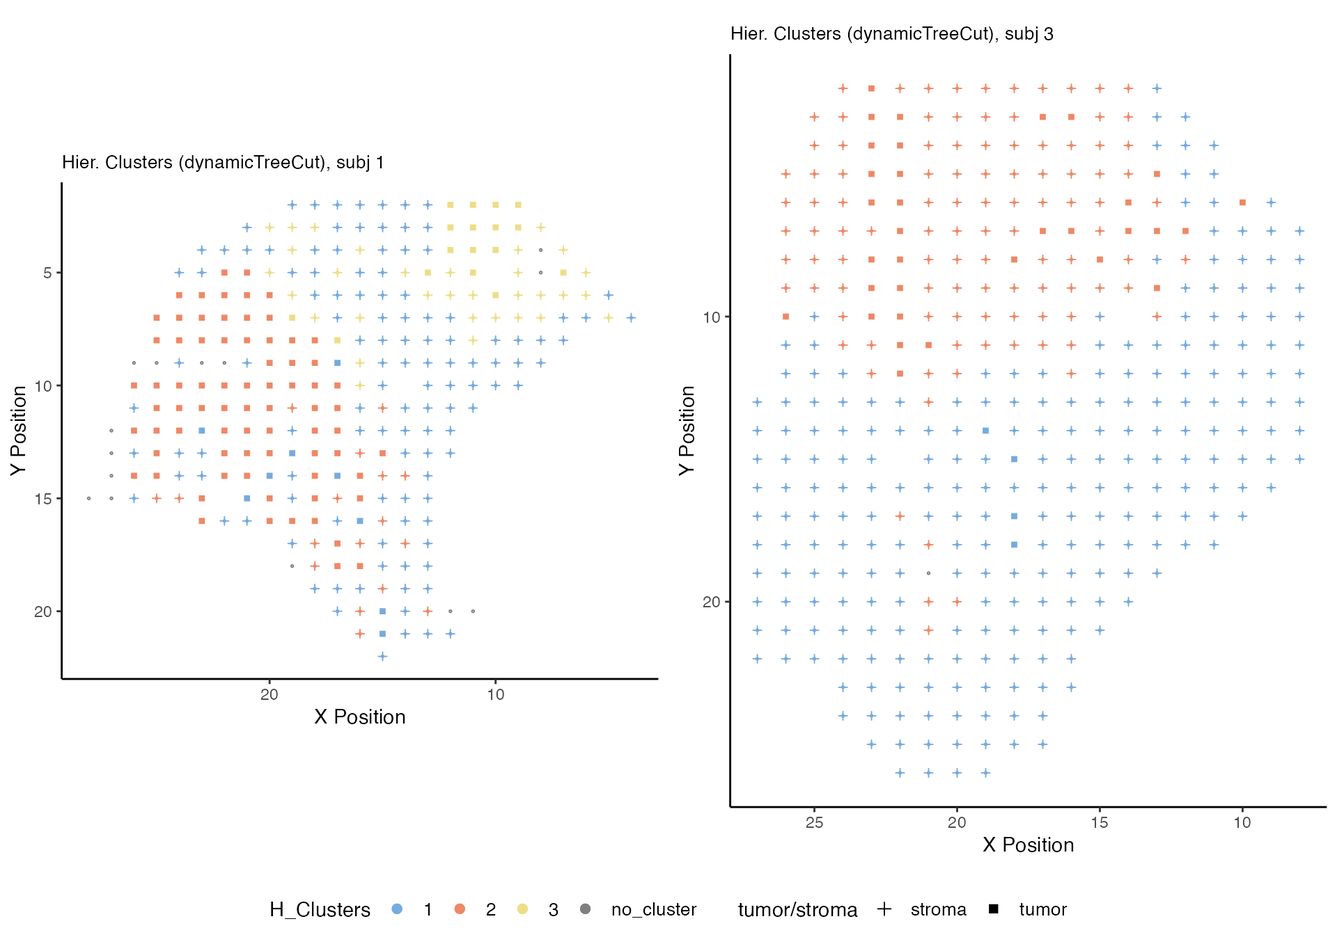
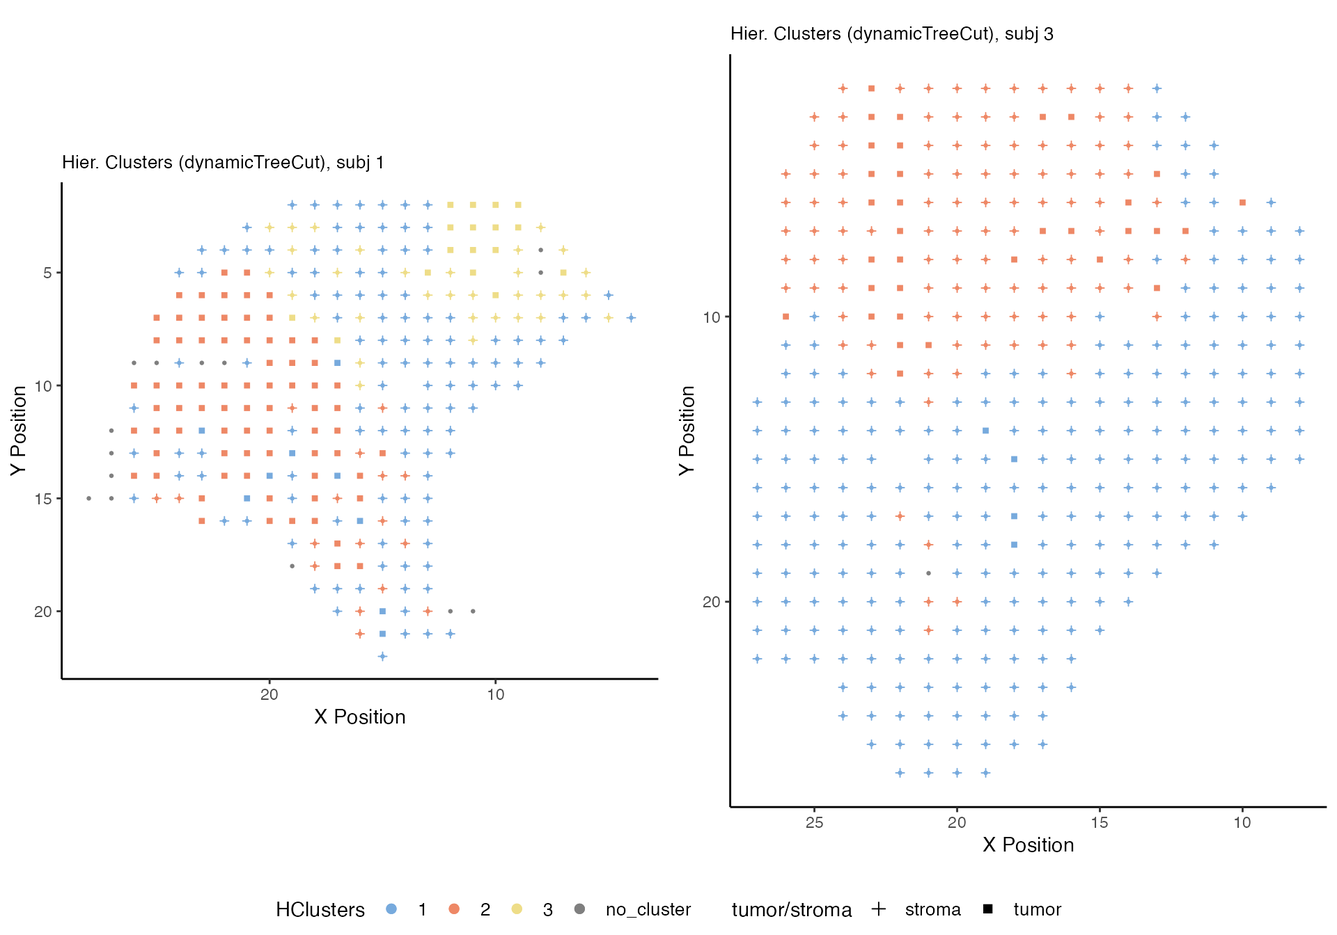
updated vignette

diff --git a/docs/articles/melanoma_ST_vignette.html b/docs/articles/melanoma_ST_vignette.html
@@ -144,7 +144,7 @@
 <code class="sourceCode R"><span class="fu"><a href="../reference/bulk_pca.html">bulk_pca</a></span><span class="op">(</span><span class="va">melanoma</span>, clinvar<span class="op">=</span><span class="st">'Gender'</span><span class="op">)</span>
 <span class="co">#&gt; Loading required package: magrittr</span>
 <span class="co">#&gt; Loading required package: ggplot2</span></code></pre></div>
-<p><img src="melanoma_ST_vignette_files/figure-html/unnamed-chunk-10-1.png" width="700"></p>
+<p><img src="melanoma_ST_vignette_files/figure-html/pca_chunk-1.png" width="960"></p>
 </div>
 <div id="data-normalization-of-spatially-resolved-transcriptomic-data" class="section level2">
 <h2 class="hasAnchor">
@@ -165,8 +165,8 @@
 <p>Let’s produce a quilt plot for the gene CAPG and SOX10, two genes known to be expressed in melanoma.</p>
 <div class="sourceCode" id="cb11"><pre class="downlit sourceCode r">
 <code class="sourceCode R"><span class="va">quilts1</span> <span class="op">&lt;-</span> <span class="fu"><a href="../reference/plot_gene_quilt.html">plot_gene_quilt</a></span><span class="op">(</span><span class="va">melanoma</span>, genes<span class="op">=</span><span class="fu"><a href="https://rdrr.io/r/base/c.html">c</a></span><span class="op">(</span><span class="st">'CAPG'</span>, <span class="st">'SOX10'</span><span class="op">)</span>, color_pal<span class="op">=</span><span class="st">"YlOrBr"</span>, plot_who<span class="op">=</span><span class="fl">1</span><span class="op">)</span>
-<span class="fu">ggpubr</span><span class="fu">::</span><span class="fu"><a href="https://rpkgs.datanovia.com/ggpubr/reference/ggarrange.html">ggarrange</a></span><span class="op">(</span>plotlist<span class="op">=</span><span class="va">quilts1</span>, nrow<span class="op">=</span><span class="fl">1</span>, ncol<span class="op">=</span><span class="fl">2</span><span class="op">)</span></code></pre></div>
-<p><img src="melanoma_ST_vignette_files/figure-html/unnamed-chunk-12-1.png" width="700"></p>
+<span class="fu">ggpubr</span><span class="fu">::</span><span class="fu"><a href="https://rpkgs.datanovia.com/ggpubr/reference/ggarrange.html">ggarrange</a></span><span class="op">(</span>plotlist<span class="op">=</span><span class="va">quilts1</span>, nrow<span class="op">=</span><span class="fl">1</span>, ncol<span class="op">=</span><span class="fl">2</span>, common.legend<span class="op">=</span><span class="cn">T</span>, legend<span class="op">=</span><span class="st">'bottom'</span><span class="op">)</span></code></pre></div>
+<p><img src="melanoma_ST_vignette_files/figure-html/genequilt_chunk-1.png" width="960"></p>
 <p>We can see that gene expression patterns of both genes are different, with a more dispersed pattern in CAPG, compared to SOX10. The large area of lower CAPG expression corresponds to the melanoma pocket detected by Thrane et al. (see Figure 3 of their study).</p>
 <div id="spatial-interpolation-kriging-of-gene-expression" class="section level3">
 <h3 class="hasAnchor">
@@ -183,8 +183,8 @@
 <div class="sourceCode" id="cb13"><pre class="downlit sourceCode r">
 <code class="sourceCode R"><span class="va">kriges1</span> <span class="op">&lt;-</span> <span class="fu"><a href="../reference/plot_gene_krige.html">plot_gene_krige</a></span><span class="op">(</span><span class="va">melanoma</span>, genes<span class="op">=</span><span class="fu"><a href="https://rdrr.io/r/base/c.html">c</a></span><span class="op">(</span><span class="st">'CAPG'</span>, <span class="st">'SOX10'</span><span class="op">)</span>, plot_who<span class="op">=</span><span class="fl">1</span><span class="op">)</span>
 <span class="co">#&gt; Loading required namespace: rgeos</span>
-<span class="fu">ggpubr</span><span class="fu">::</span><span class="fu"><a href="https://rpkgs.datanovia.com/ggpubr/reference/ggarrange.html">ggarrange</a></span><span class="op">(</span>plotlist<span class="op">=</span><span class="va">kriges1</span>, nrow<span class="op">=</span><span class="fl">1</span>, ncol<span class="op">=</span><span class="fl">2</span><span class="op">)</span></code></pre></div>
-<p><img src="melanoma_ST_vignette_files/figure-html/unnamed-chunk-14-1.png" width="700"></p>
+<span class="fu">ggpubr</span><span class="fu">::</span><span class="fu"><a href="https://rpkgs.datanovia.com/ggpubr/reference/ggarrange.html">ggarrange</a></span><span class="op">(</span>plotlist<span class="op">=</span><span class="va">kriges1</span>, nrow<span class="op">=</span><span class="fl">1</span>, ncol<span class="op">=</span><span class="fl">2</span>, common.legend<span class="op">=</span><span class="cn">T</span>, legend<span class="op">=</span><span class="st">'bottom'</span><span class="op">)</span></code></pre></div>
+<p><img src="melanoma_ST_vignette_files/figure-html/plotgenekrige_chunk1-1.png" width="960"></p>
 <p>By looking at the transcriptomic surfaces of the tho genes, it is easier to detect pockets of higher (or lower) expression within the tissue. It is now more evident that expression of CAPG is lower on the left (melanoma) portion of the tumor slice, compared to the rest of the slice.</p>
 <p>In the transcriptomic surface plots, <code>spatialGE</code> outputs three spatial heterogeneity statistics: Moran’s I, Geary’s C, and Getis-Ord Gi.</p>
 <table class="table">
@@ -217,8 +217,8 @@
 <p>A higher difference in Moran’s I can be seen for one of the tissue slices of patient 2. With a higher Moran’s I, CAPG shows expression concentrated in the center right and lower left of the tissue. For SOX10, expression is almost uniform for the lower half of the tissue slice.</p>
 <div class="sourceCode" id="cb14"><pre class="downlit sourceCode r">
 <code class="sourceCode R"><span class="va">kriges2</span> <span class="op">&lt;-</span> <span class="fu"><a href="../reference/plot_gene_krige.html">plot_gene_krige</a></span><span class="op">(</span><span class="va">melanoma</span>, genes<span class="op">=</span><span class="fu"><a href="https://rdrr.io/r/base/c.html">c</a></span><span class="op">(</span><span class="st">'CAPG'</span>, <span class="st">'SOX10'</span><span class="op">)</span>, plot_who<span class="op">=</span><span class="fl">3</span><span class="op">)</span>
-<span class="fu">ggpubr</span><span class="fu">::</span><span class="fu"><a href="https://rpkgs.datanovia.com/ggpubr/reference/ggarrange.html">ggarrange</a></span><span class="op">(</span>plotlist<span class="op">=</span><span class="va">kriges2</span>, nrow<span class="op">=</span><span class="fl">1</span>, ncol<span class="op">=</span><span class="fl">2</span><span class="op">)</span></code></pre></div>
-<p><img src="melanoma_ST_vignette_files/figure-html/unnamed-chunk-16-1.png" width="700"></p>
+<span class="fu">ggpubr</span><span class="fu">::</span><span class="fu"><a href="https://rpkgs.datanovia.com/ggpubr/reference/ggarrange.html">ggarrange</a></span><span class="op">(</span>plotlist<span class="op">=</span><span class="va">kriges2</span>, nrow<span class="op">=</span><span class="fl">1</span>, ncol<span class="op">=</span><span class="fl">2</span>, common.legend<span class="op">=</span><span class="cn">T</span>, legend<span class="op">=</span><span class="st">'bottom'</span><span class="op">)</span></code></pre></div>
+<p><img src="melanoma_ST_vignette_files/figure-html/plotgenekrige_chunk2-1.png" width="960"></p>
 </div>
 </div>
 <div id="gene-expression-deconvolution-in-spatial-arrays" class="section level2">
@@ -267,48 +267,47 @@
 <span class="co">#&gt; Applying xCell to spatial array #4...</span>
 <span class="co">#&gt; </span>
 <span class="co">#&gt; Calculating p-values for spatial array #4...</span></code></pre></div>
-<p>With the function <code><a href="../reference/plot_deconv_quilt.html">plot_deconv_quilt()</a></code>, we can visualize the cell type scores inferred by xCell. For example, B cells and lymphatic endothelial cells.</p>
+<p>With the function <code><a href="../reference/plot_deconv_quilt.html">plot_deconv_quilt()</a></code>, we can visualize the cell type scores inferred by xCell. For example, B cells and dendritic cells.</p>
 <div class="sourceCode" id="cb16"><pre class="downlit sourceCode r">
-<code class="sourceCode R"><span class="va">quilts2</span> <span class="op">&lt;-</span> <span class="fu"><a href="../reference/plot_deconv_quilt.html">plot_deconv_quilt</a></span><span class="op">(</span><span class="va">melanoma</span>, cells<span class="op">=</span><span class="fu"><a href="https://rdrr.io/r/base/c.html">c</a></span><span class="op">(</span><span class="st">'b_cells'</span>, <span class="st">'ly_endothelial_cells'</span><span class="op">)</span>, 
+<code class="sourceCode R"><span class="va">quilts2</span> <span class="op">&lt;-</span> <span class="fu"><a href="../reference/plot_deconv_quilt.html">plot_deconv_quilt</a></span><span class="op">(</span><span class="va">melanoma</span>, cells<span class="op">=</span><span class="fu"><a href="https://rdrr.io/r/base/c.html">c</a></span><span class="op">(</span><span class="st">'b_cells'</span>, <span class="st">'i_dc'</span><span class="op">)</span>, 
                            color_pal<span class="op">=</span><span class="st">"YlOrBr"</span>, plot_who<span class="op">=</span><span class="fl">1</span>, purity<span class="op">=</span><span class="cn">T</span><span class="op">)</span>
-
-<span class="fu">gridExtra</span><span class="fu">::</span><span class="fu"><a href="https://rdrr.io/pkg/gridExtra/man/arrangeGrob.html">grid.arrange</a></span><span class="op">(</span>grobs<span class="op">=</span><span class="va">quilts2</span>, nrow<span class="op">=</span><span class="fl">1</span>, ncol<span class="op">=</span><span class="fl">2</span><span class="op">)</span></code></pre></div>
-<p><img src="melanoma_ST_vignette_files/figure-html/unnamed-chunk-18-1.png" width="700"></p>
-<p>By plotting the tumor/stroma classification of the spots, the differences in cell scores can quiclky be detected. Melanoma areas (squares) show lower B cell and endothelial cell scores, as expected. Nonetheless, some B cell infiltration is observed in the melanoma pocket (darker squares on the left portion of the graph on the left).</p>
+<span class="fu">ggpubr</span><span class="fu">::</span><span class="fu"><a href="https://rpkgs.datanovia.com/ggpubr/reference/ggarrange.html">ggarrange</a></span><span class="op">(</span>plotlist<span class="op">=</span><span class="va">quilts2</span>, nrow<span class="op">=</span><span class="fl">1</span>, ncol<span class="op">=</span><span class="fl">3</span>, common.legend<span class="op">=</span><span class="cn">T</span>, legend<span class="op">=</span><span class="st">'bottom'</span><span class="op">)</span></code></pre></div>
+<p><img src="melanoma_ST_vignette_files/figure-html/deconvquilts_chunk-1.png" width="960"></p>
+<p>By plotting the tumor/stroma classification of the spots, the differences in cell scores can quiclky be detected. Melanoma areas (squares) show lower B cell and dendritic cell scores, as expected. Nonetheless, B cells were abundant in the lymphoid pocket (upper right part of the tissue).</p>
 <p>Similar plots can be generated for gene expression, as opposed to deconvolution scores, with the <code><a href="../reference/plot_gene_quilt.html">plot_gene_quilt()</a></code> function:</p>
 <div class="sourceCode" id="cb17"><pre class="downlit sourceCode r">
 <code class="sourceCode R"><span class="va">quilts3</span> <span class="op">&lt;-</span> <span class="fu"><a href="../reference/plot_gene_quilt.html">plot_gene_quilt</a></span><span class="op">(</span><span class="va">melanoma</span>, genes<span class="op">=</span><span class="fu"><a href="https://rdrr.io/r/base/c.html">c</a></span><span class="op">(</span><span class="st">'CAPG'</span>, <span class="st">'SOX10'</span><span class="op">)</span>, color_pal<span class="op">=</span><span class="st">"YlOrBr"</span>, 
                            plot_who<span class="op">=</span><span class="fl">1</span>, purity<span class="op">=</span><span class="cn">T</span><span class="op">)</span>
 
-<span class="fu">gridExtra</span><span class="fu">::</span><span class="fu"><a href="https://rdrr.io/pkg/gridExtra/man/arrangeGrob.html">marrangeGrob</a></span><span class="op">(</span><span class="va">quilts3</span>, nrow<span class="op">=</span><span class="fl">1</span>, ncol<span class="op">=</span><span class="fl">2</span><span class="op">)</span></code></pre></div>
-<p><img src="melanoma_ST_vignette_files/figure-html/unnamed-chunk-19-1.png" width="700"></p>
+<span class="fu">ggpubr</span><span class="fu">::</span><span class="fu"><a href="https://rpkgs.datanovia.com/ggpubr/reference/ggarrange.html">ggarrange</a></span><span class="op">(</span>plotlist<span class="op">=</span><span class="va">quilts3</span>, nrow<span class="op">=</span><span class="fl">1</span>, ncol<span class="op">=</span><span class="fl">3</span>, common.legend<span class="op">=</span><span class="cn">T</span>, legend<span class="op">=</span><span class="st">'bottom'</span><span class="op">)</span></code></pre></div>
+<p><img src="melanoma_ST_vignette_files/figure-html/genepurity_chunk-1.png" width="960"></p>
 <p>Spatial interpolation of cell scores is also possible with the <code><a href="../reference/deconv_krige.html">deconv_krige()</a></code> function:</p>
 <div class="sourceCode" id="cb18"><pre class="downlit sourceCode r">
-<code class="sourceCode R"><span class="va">melanoma</span> <span class="op">&lt;-</span> <span class="fu"><a href="../reference/deconv_krige.html">deconv_krige</a></span><span class="op">(</span><span class="va">melanoma</span>, cells<span class="op">=</span><span class="fu"><a href="https://rdrr.io/r/base/c.html">c</a></span><span class="op">(</span><span class="st">'b_cells'</span>, <span class="st">'ly_endothelial_cells'</span><span class="op">)</span>, 
+<code class="sourceCode R"><span class="va">melanoma</span> <span class="op">&lt;-</span> <span class="fu"><a href="../reference/deconv_krige.html">deconv_krige</a></span><span class="op">(</span><span class="va">melanoma</span>, cells<span class="op">=</span><span class="fu"><a href="https://rdrr.io/r/base/c.html">c</a></span><span class="op">(</span><span class="st">'b_cells'</span>, <span class="st">'i_dc'</span><span class="op">)</span>, 
                          who<span class="op">=</span><span class="fu"><a href="https://rdrr.io/r/base/c.html">c</a></span><span class="op">(</span><span class="fl">1</span>, <span class="fl">3</span><span class="op">)</span><span class="op">)</span>
 <span class="co">#&gt; Performing spatial interpolation ('kriging') of b_cells for subject 1...</span>
-<span class="co">#&gt; Performing spatial interpolation ('kriging') of ly_endothelial_cells for subject 1...</span>
+<span class="co">#&gt; Performing spatial interpolation ('kriging') of i_dc for subject 1...</span>
 <span class="co">#&gt; Performing spatial interpolation ('kriging') of b_cells for subject 3...</span>
-<span class="co">#&gt; Performing spatial interpolation ('kriging') of ly_endothelial_cells for subject 3...</span></code></pre></div>
+<span class="co">#&gt; Performing spatial interpolation ('kriging') of i_dc for subject 3...</span></code></pre></div>
 <p>We plot the surfaces using the <code><a href="../reference/plot_deconv_krige.html">plot_deconv_krige()</a></code> function.</p>
 <div class="sourceCode" id="cb19"><pre class="downlit sourceCode r">
-<code class="sourceCode R"><span class="va">kriges3</span> <span class="op">&lt;-</span> <span class="fu"><a href="../reference/plot_deconv_krige.html">plot_deconv_krige</a></span><span class="op">(</span><span class="va">melanoma</span>,  cells<span class="op">=</span><span class="fu"><a href="https://rdrr.io/r/base/c.html">c</a></span><span class="op">(</span><span class="st">'b_cells'</span>, <span class="st">'ly_endothelial_cells'</span><span class="op">)</span>,
+<code class="sourceCode R"><span class="va">kriges3</span> <span class="op">&lt;-</span> <span class="fu"><a href="../reference/plot_deconv_krige.html">plot_deconv_krige</a></span><span class="op">(</span><span class="va">melanoma</span>,  cells<span class="op">=</span><span class="fu"><a href="https://rdrr.io/r/base/c.html">c</a></span><span class="op">(</span><span class="st">'b_cells'</span>, <span class="st">'i_dc'</span><span class="op">)</span>,
                            color_pal<span class="op">=</span><span class="st">"YlOrBr"</span>, plot_who<span class="op">=</span><span class="fl">1</span><span class="op">)</span>
-<span class="fu">ggpubr</span><span class="fu">::</span><span class="fu"><a href="https://rpkgs.datanovia.com/ggpubr/reference/ggarrange.html">ggarrange</a></span><span class="op">(</span>plotlist<span class="op">=</span><span class="va">kriges3</span>, nrow<span class="op">=</span><span class="fl">1</span>, ncol<span class="op">=</span><span class="fl">2</span><span class="op">)</span></code></pre></div>
-<p><img src="melanoma_ST_vignette_files/figure-html/unnamed-chunk-21-1.png" width="700"></p>
+<span class="fu">ggpubr</span><span class="fu">::</span><span class="fu"><a href="https://rpkgs.datanovia.com/ggpubr/reference/ggarrange.html">ggarrange</a></span><span class="op">(</span>plotlist<span class="op">=</span><span class="va">kriges3</span>, nrow<span class="op">=</span><span class="fl">1</span>, ncol<span class="op">=</span><span class="fl">2</span>, common.legend<span class="op">=</span><span class="cn">T</span>, legend<span class="op">=</span><span class="st">'bottom'</span><span class="op">)</span></code></pre></div>
+<p><img src="melanoma_ST_vignette_files/figure-html/plotdeconvkrige_chunk-1.png" width="960"></p>
 <p>Cell scores in xCell are accompanied by p-values to support the significance of the scores. The p-values are calculated automatically during deconvolution in <code>spatialGE</code>, and we can plot them using the <code>pvalue</code> option:</p>
 <div class="sourceCode" id="cb20"><pre class="downlit sourceCode r">
-<code class="sourceCode R"><span class="va">kriges4</span> <span class="op">&lt;-</span> <span class="fu"><a href="../reference/plot_deconv_krige.html">plot_deconv_krige</a></span><span class="op">(</span><span class="va">melanoma</span>,  cells<span class="op">=</span><span class="fu"><a href="https://rdrr.io/r/base/c.html">c</a></span><span class="op">(</span><span class="st">'b_cells'</span>, <span class="st">'ly_endothelial_cells'</span><span class="op">)</span>,
+<code class="sourceCode R"><span class="va">kriges4</span> <span class="op">&lt;-</span> <span class="fu"><a href="../reference/plot_deconv_krige.html">plot_deconv_krige</a></span><span class="op">(</span><span class="va">melanoma</span>,  cells<span class="op">=</span><span class="fu"><a href="https://rdrr.io/r/base/c.html">c</a></span><span class="op">(</span><span class="st">'b_cells'</span>, <span class="st">'i_dc'</span><span class="op">)</span>,
                            color_pal<span class="op">=</span><span class="st">"YlOrBr"</span>, plot_who<span class="op">=</span><span class="fl">1</span>, pvalues<span class="op">=</span><span class="cn">T</span><span class="op">)</span>
-<span class="fu">ggpubr</span><span class="fu">::</span><span class="fu"><a href="https://rpkgs.datanovia.com/ggpubr/reference/ggarrange.html">ggarrange</a></span><span class="op">(</span>plotlist<span class="op">=</span><span class="va">kriges4</span>, nrow<span class="op">=</span><span class="fl">1</span>, ncol<span class="op">=</span><span class="fl">2</span><span class="op">)</span></code></pre></div>
-<p><img src="melanoma_ST_vignette_files/figure-html/unnamed-chunk-22-1.png" width="700"></p>
-<p>As expected, xCell scores for the lymphatic endothelial cells are significant almost exclusively outside the melanoma area. B cells are present throughout the tissue, but less abundant in the melanoma pocket.</p>
+<span class="fu">ggpubr</span><span class="fu">::</span><span class="fu"><a href="https://rpkgs.datanovia.com/ggpubr/reference/ggarrange.html">ggarrange</a></span><span class="op">(</span>plotlist<span class="op">=</span><span class="va">kriges4</span>, nrow<span class="op">=</span><span class="fl">1</span>, ncol<span class="op">=</span><span class="fl">2</span>, common.legend<span class="op">=</span><span class="cn">T</span>, legend<span class="op">=</span><span class="st">'bottom'</span><span class="op">)</span></code></pre></div>
+<p><img src="melanoma_ST_vignette_files/figure-html/plotkrigepvals_chunk-1.png" width="960"></p>
+<p>B cells are present throughout the tissue, but less abundant in the melanoma pocket. The estimates were significantly different from zero as sugggested by xCell’s permutation method. The xCell scores for the dendritic cells were only significantly different from zero only on three spots (gray hollow circles).</p>
 <p>The <code><a href="../reference/plot_deconv_krige.html">plot_deconv_krige()</a></code> also allows annotation of tumor spots:</p>
 <div class="sourceCode" id="cb21"><pre class="downlit sourceCode r">
-<code class="sourceCode R"><span class="va">kriges5</span> <span class="op">&lt;-</span> <span class="fu"><a href="../reference/plot_deconv_krige.html">plot_deconv_krige</a></span><span class="op">(</span><span class="va">melanoma</span>,  cells<span class="op">=</span><span class="fu"><a href="https://rdrr.io/r/base/c.html">c</a></span><span class="op">(</span><span class="st">'b_cells'</span>, <span class="st">'ly_endothelial_cells'</span><span class="op">)</span>,
+<code class="sourceCode R"><span class="va">kriges5</span> <span class="op">&lt;-</span> <span class="fu"><a href="../reference/plot_deconv_krige.html">plot_deconv_krige</a></span><span class="op">(</span><span class="va">melanoma</span>,  cells<span class="op">=</span><span class="fu"><a href="https://rdrr.io/r/base/c.html">c</a></span><span class="op">(</span><span class="st">'b_cells'</span>, <span class="st">'i_dc'</span><span class="op">)</span>,
                            color_pal<span class="op">=</span><span class="st">"YlOrBr"</span>, plot_who<span class="op">=</span><span class="fl">1</span>, purity<span class="op">=</span><span class="cn">T</span><span class="op">)</span>
-<span class="fu">ggpubr</span><span class="fu">::</span><span class="fu"><a href="https://rpkgs.datanovia.com/ggpubr/reference/ggarrange.html">ggarrange</a></span><span class="op">(</span>plotlist<span class="op">=</span><span class="va">kriges5</span>, nrow<span class="op">=</span><span class="fl">1</span>, ncol<span class="op">=</span><span class="fl">2</span><span class="op">)</span></code></pre></div>
-<p><img src="melanoma_ST_vignette_files/figure-html/unnamed-chunk-23-1.png" width="700"></p>
+<span class="fu">ggpubr</span><span class="fu">::</span><span class="fu"><a href="https://rpkgs.datanovia.com/ggpubr/reference/ggarrange.html">ggarrange</a></span><span class="op">(</span>plotlist<span class="op">=</span><span class="va">kriges5</span>, nrow<span class="op">=</span><span class="fl">1</span>, ncol<span class="op">=</span><span class="fl">2</span>, common.legend<span class="op">=</span><span class="cn">T</span>, legend<span class="op">=</span><span class="st">'bottom'</span><span class="op">)</span></code></pre></div>
+<p><img src="melanoma_ST_vignette_files/figure-html/plotkrigepurity_chunk-1.png" width="960"></p>
 </div>
 <div id="spatially-informed-clustering-of-spots" class="section level2">
 <h2 class="hasAnchor">
@@ -319,12 +318,15 @@
 <p>Results of clustering can be plotted via the <code><a href="../reference/plot_STclusters.html">plot_STclusters()</a></code> function:</p>
 <div class="sourceCode" id="cb23"><pre class="downlit sourceCode r">
 <code class="sourceCode R"><span class="va">cluster_p</span> <span class="op">&lt;-</span> <span class="fu"><a href="../reference/plot_STclusters.html">plot_STclusters</a></span><span class="op">(</span><span class="va">melanoma</span>, purity<span class="op">=</span><span class="cn">T</span>, plot_who<span class="op">=</span><span class="fu"><a href="https://rdrr.io/r/base/c.html">c</a></span><span class="op">(</span><span class="fl">1</span>,<span class="fl">3</span><span class="op">)</span><span class="op">)</span>
+
+<span class="co"># In case specific k values are selected:</span>
 <span class="co"># for(i in 1:2){</span>
-<span class="co">#  print(ggpubr::ggarrange(plotlist=cluster_p[[i]], nrow=2, ncol=2))</span>
+<span class="co">#  print(ggpubr::ggarrange(plotlist=cluster_p[[i]], nrow=2, ncol=2, common.legend=T, legend='bottom'))</span>
 <span class="co"># }</span>
-<span class="fu">ggpubr</span><span class="fu">::</span><span class="fu"><a href="https://rpkgs.datanovia.com/ggpubr/reference/ggarrange.html">ggarrange</a></span><span class="op">(</span>plotlist<span class="op">=</span><span class="va">cluster_p</span>, nrow<span class="op">=</span><span class="fl">1</span>, ncol<span class="op">=</span><span class="fl">2</span><span class="op">)</span></code></pre></div>
-<p><img src="melanoma_ST_vignette_files/figure-html/unnamed-chunk-25-1.png" width="700"></p>
-<p>We have used here the dynamicTreeCut (<code>dtc</code> option) to select the number of clusters, but users can define their own range of k to evaluate. The two tissues plotted here, show compartmentalization, but in the sample on the left, the lymnphoid tissue on the right portion of the tissue is shown in yellow.</p>
+
+<span class="fu">ggpubr</span><span class="fu">::</span><span class="fu"><a href="https://rpkgs.datanovia.com/ggpubr/reference/ggarrange.html">ggarrange</a></span><span class="op">(</span>plotlist<span class="op">=</span><span class="va">cluster_p</span>, nrow<span class="op">=</span><span class="fl">1</span>, ncol<span class="op">=</span><span class="fl">2</span>, common.legend<span class="op">=</span><span class="cn">T</span>, legend<span class="op">=</span><span class="st">'bottom'</span><span class="op">)</span></code></pre></div>
+<p><img src="melanoma_ST_vignette_files/figure-html/plotclustspots_chunk-1.png" width="960"></p>
+<p>We have used here the dynamicTreeCut (<code>dtc</code> option) to select the number of clusters, but users can define their own range of k to evaluate. The two tissues plotted here, show compartmentalization, but in the sample on the left, the lymphoid tissue on the right portion of the tissue is shown in yellow.</p>
 </div>
 <div id="summary" class="section level2">
 <h2 class="hasAnchor">
